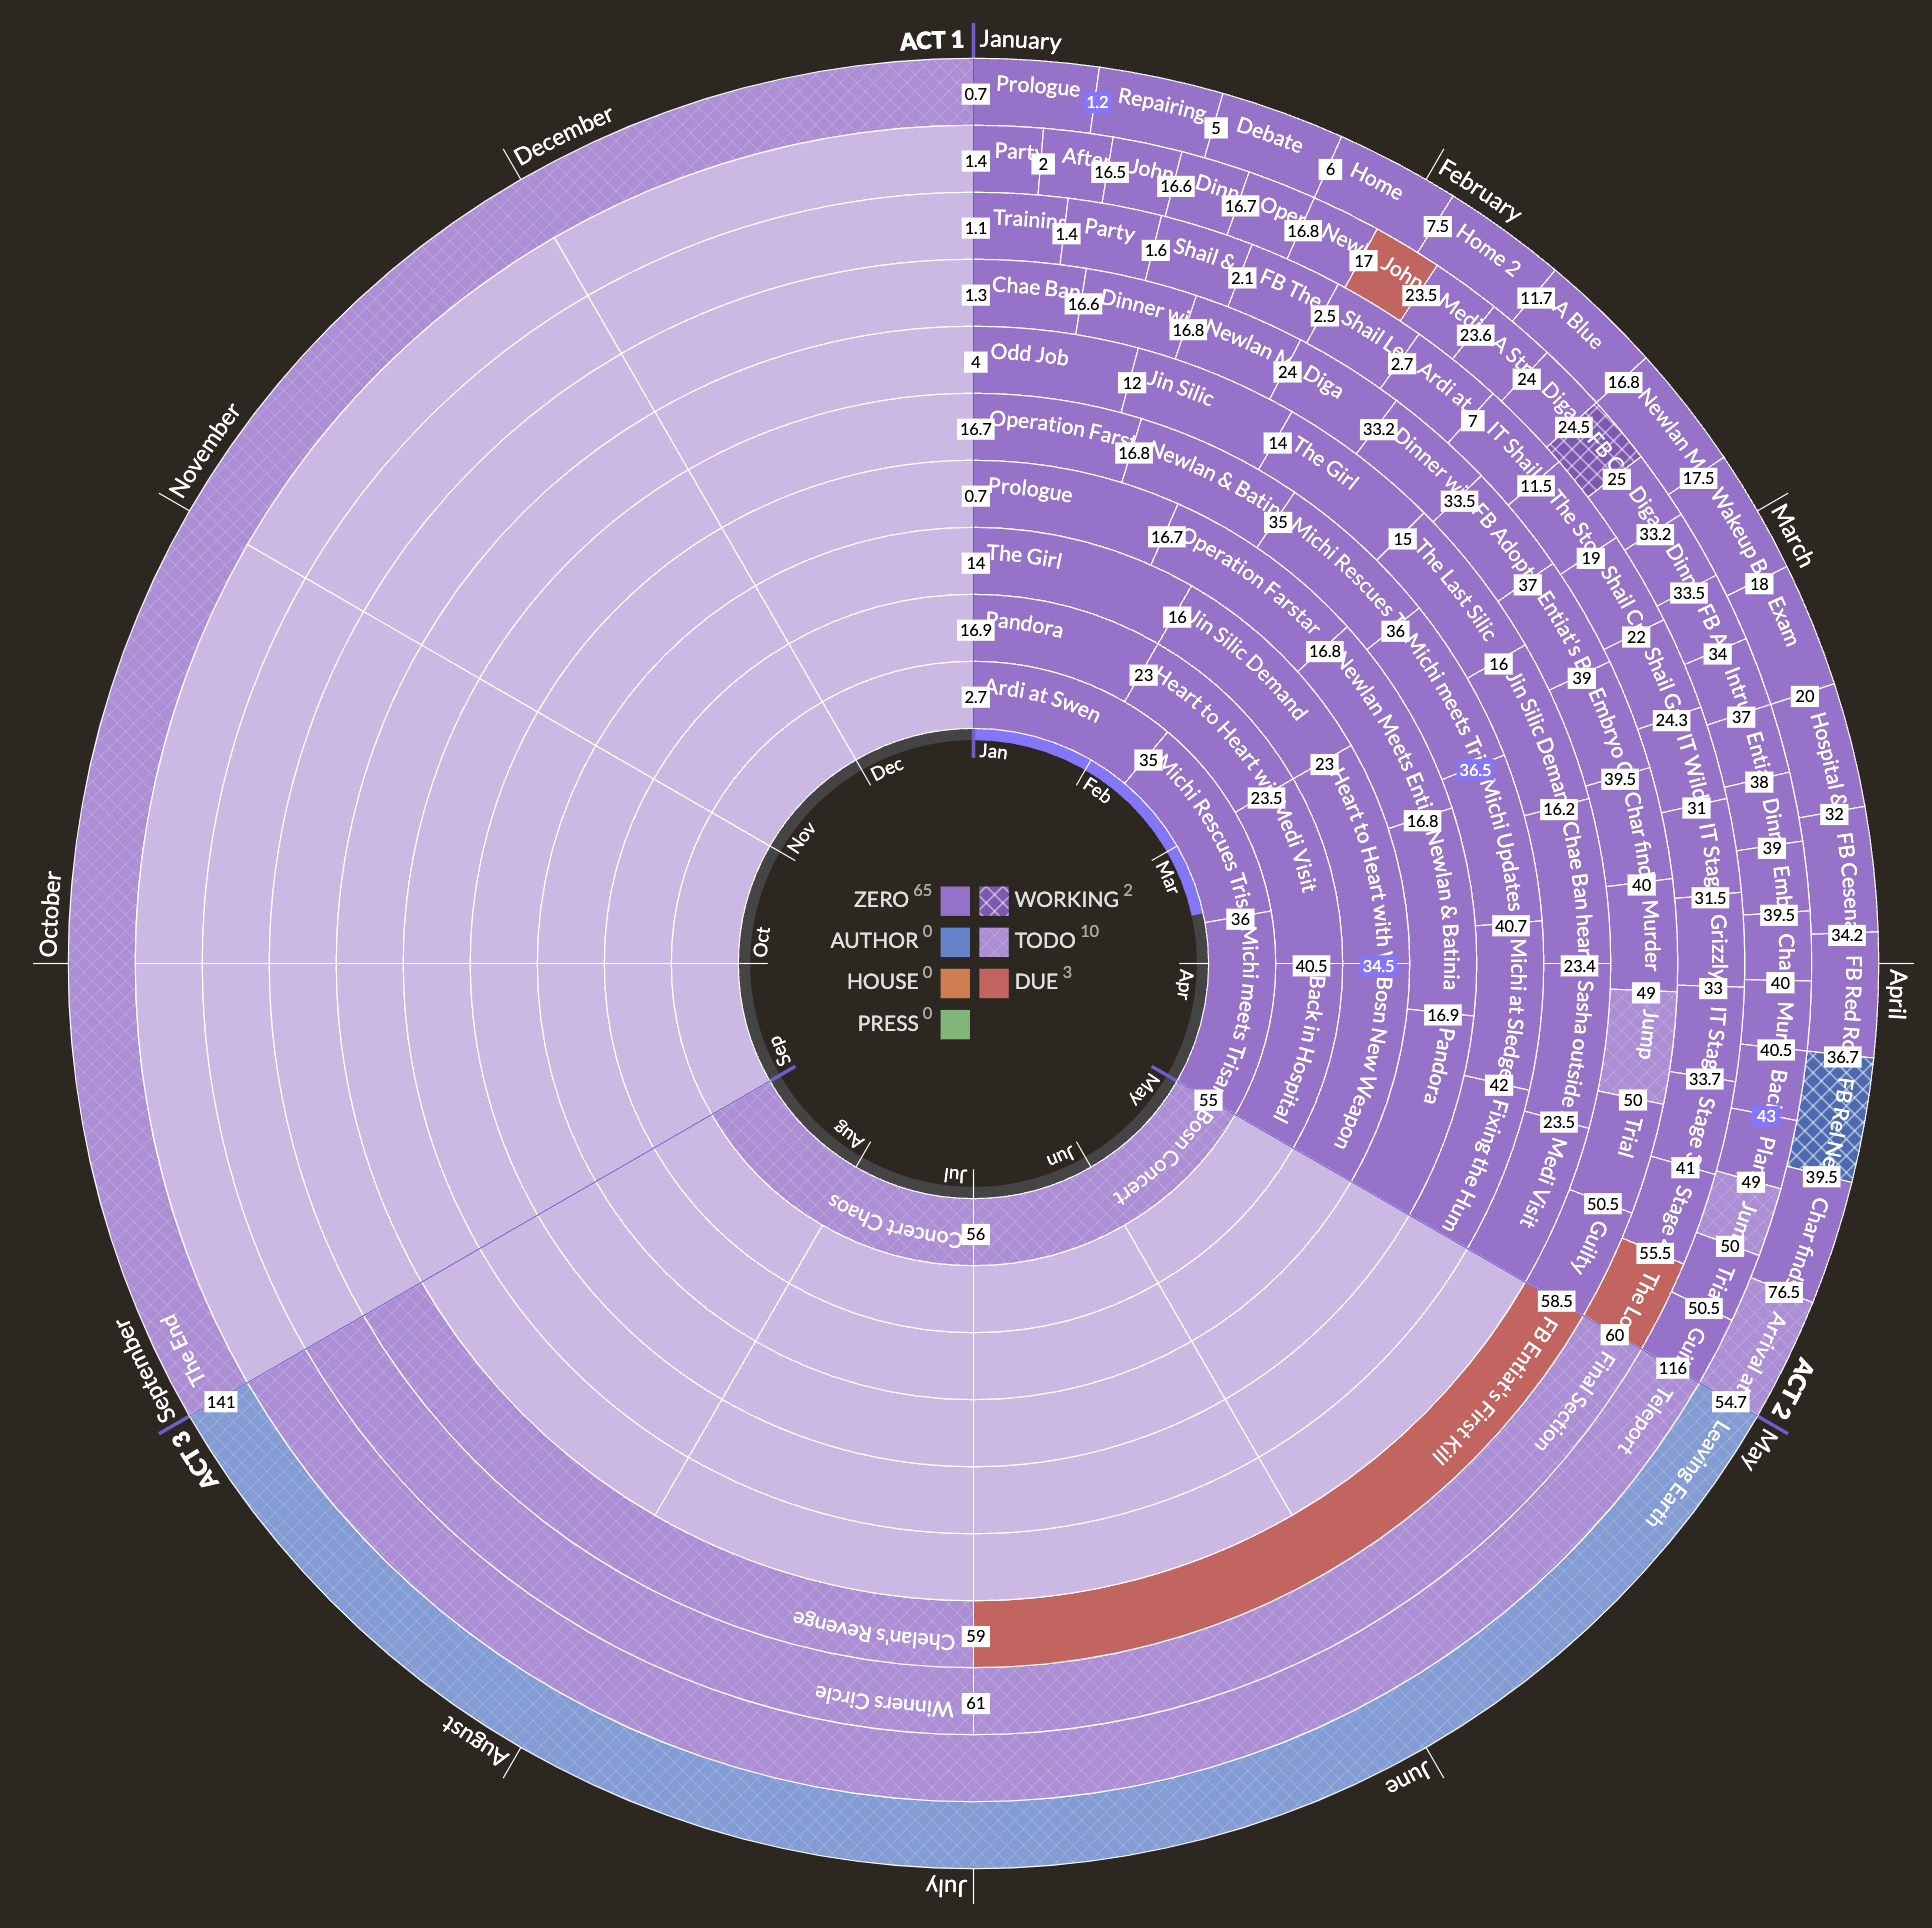
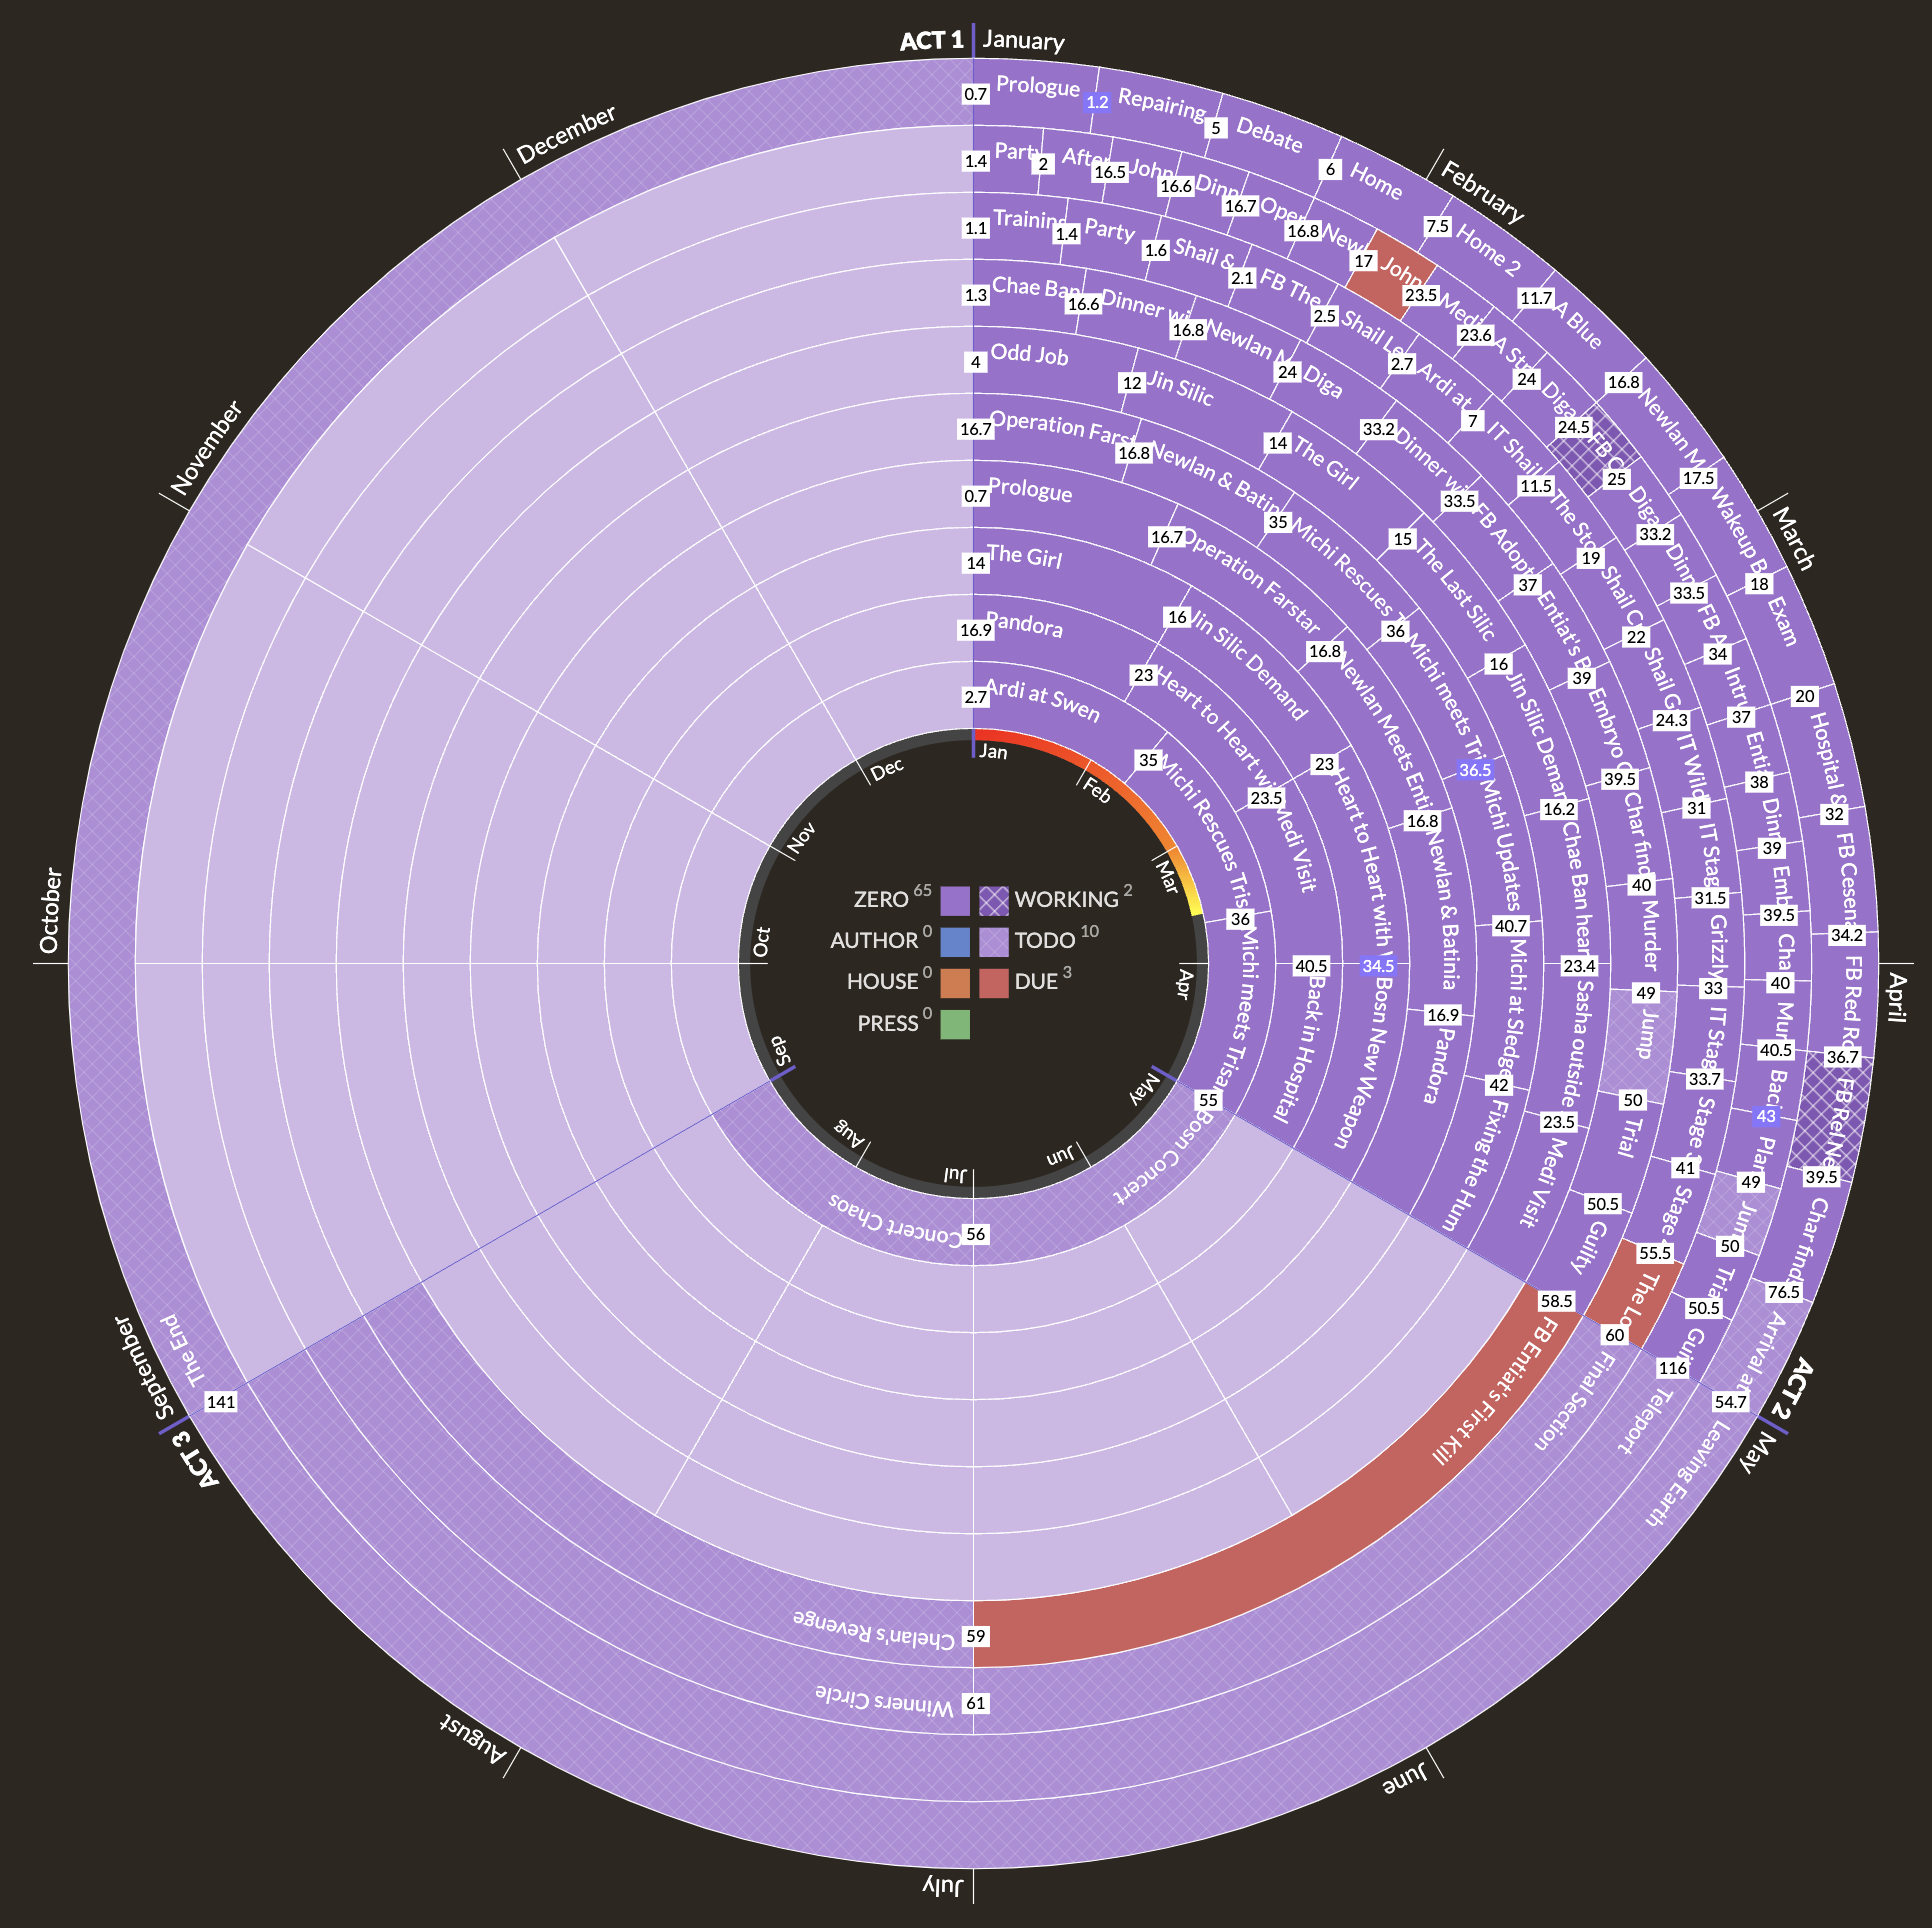
Fix outer month labels positioning and implement rainbow gradient progress ring

diff --git a/main.ts b/main.ts
@@ -530,8 +530,10 @@ export default class ManuscriptTimelinePlugin extends Plugin {
             // Convert 5px to radians based on the circle's circumference
             const pixelToRadian = (5 * 2 * Math.PI) / (2 * Math.PI * outerlabelRadius);
             
-            const startAngle = angle + pixelToRadian;  // Add tiny offset to move label clockwise from spoke
-            const endAngle = angle + (Math.PI / 6); // Maintain same arc length for text to follow
+            // Make the month offset very small, similar to but positive (clockwise) for Acts
+            const angleOffset = 0.01; // Half of previous value (0.02)
+            const startAngle = angle + angleOffset;  // Small offset to move label clockwise
+            const endAngle = startAngle + (Math.PI / 24); // Short arc length
   
             const pathId = `monthLabelPath-${index}`;
 
@@ -554,7 +556,7 @@ export default class ManuscriptTimelinePlugin extends Plugin {
             const pathId = `monthLabelPath-${index}`;
             svg += `
                 <text class="month-label-outer">
-                    <textPath href="#${pathId}" startOffset="50%" text-anchor="middle">
+                    <textPath href="#${pathId}" startOffset="0" text-anchor="start">
                         ${name}
                     </textPath>
                 </text>
